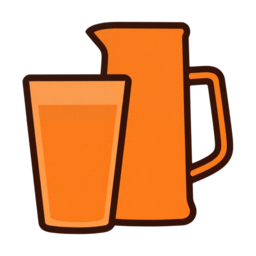
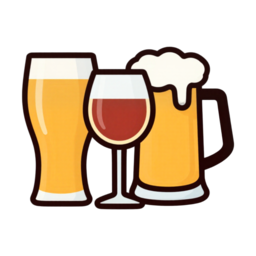
fix(glyphs): restore the drink variety and the crown's gold
Two glyphs in the new set lost the idea the old art carried.

three-glasses belongs to drink_variety, which scores distinct drink
types at 2/3/4/5. Its prompt asked for "two overlapping drinking
vessels, a tall beer glass in front and a handled stein behind it" in
one warm orange, so the art showed two containers of the same liquid:
the wrong count for the top two rungs, and no cue that the drinks
differ. It now names a wheat glass, a stemmed wine glass and a stein,
with a wine red accent in the palette so the variety survives at 22px.

wiesn-crown belongs to full_festival, every day attended, tier 4 and
the largest attendance award in the set. Its prompt asked for emerald
green, which is the attendance colour the badge ring already draws
around it, so the crown was green inside a green ring and gave up the
gold that reads as a top prize. The pretzel it asked for at the centre
never rendered. Gold and a fat looped pretzel bring both back.

Seed choice was decided by alpha, not by the art. Seeds 1, 3 and 4 of
three-glasses report 110k-131k enclosed-hole pixels against seed 2's
19k: their foam and glass-air are holes rather than paint, which is
invisible in preview.sh (it composites on white) but would dissolve
into the sheet background, since the badge draws no background fill.
Seed 2 paints them, matching masskrug, so it wins despite reading
slightly softer at 22px. Both approved seeds are in chosen.tsv, and
the README now says to judge alpha on a non-white background.

diff --git a/scripts/glyphs/README.md b/scripts/glyphs/README.md
@@ -88,6 +88,20 @@ all take explicit paths, so they compose:
 that white paint exists. A glyph that looks wrong with a clean report is
 probably an alpha problem, not an art problem. Check `diag.sh`'s matte panel.
 
+The reverse trap is the dangerous one, because it looks like success.
+`preview.sh` and `sheet.sh` composite on white and the badge draws no
+background fill, so a foam head that is a *hole* is indistinguishable from one
+that is white paint until the glyph sits on anything else. Check a seed on a
+non-white background before approving it, via `diag.sh`'s grey panel or
+`magick <src> -background magenta -alpha remove -alpha off out.png`.
+
+`verify.py`'s enclosed-hole count is the fast signal, and it swings hard
+between seeds of one prompt: of four `three-glasses` seeds, one reported 19k
+hole pixels and the rest 110k-131k. Only that one had painted foam, and it won
+for that reason. Compare against a glyph known to be right (`masskrug` shows
+magenta through the stein handle and nowhere else) rather than against zero,
+since some holes are correct.
+
 ## Prompt lessons
 
 The style preamble in `gen.sh` is doing real work; the per-glyph `subject`
@@ -110,6 +124,18 @@ column should describe shape and nothing else.
 - Keep art clear of the outer edge. `gen.sh` trims to the alpha bounding box and
   re-centres at 83% of the frame, so a generous model margin does not eat the
   badge's pixel budget.
+- **The palette column carries the art's own colour, not the category's.** The
+  crown was prompted `emerald green` because `full_festival` is an attendance
+  achievement, which drew a green crown sitting inside a green ring and threw
+  away the gold that says "top prize". The ring does the category coding, so
+  repeating it in the art costs a colour and buys nothing.
+- **Name the elements rather than counting them.** `drink_variety` scores
+  *distinct* drink types, so its glyph has to show different vessels, and
+  "two overlapping drinking vessels" quietly contradicted the metric. Naming a
+  wheat glass, a stemmed wine glass and a handled stein put three in all four
+  seeds. A second hue in the palette is what makes them read as different
+  drinks at 22px, and it is worth bending the duotone rule for: in one hue the
+  three shapes are just three containers of the same liquid.
 
 ## History
 
